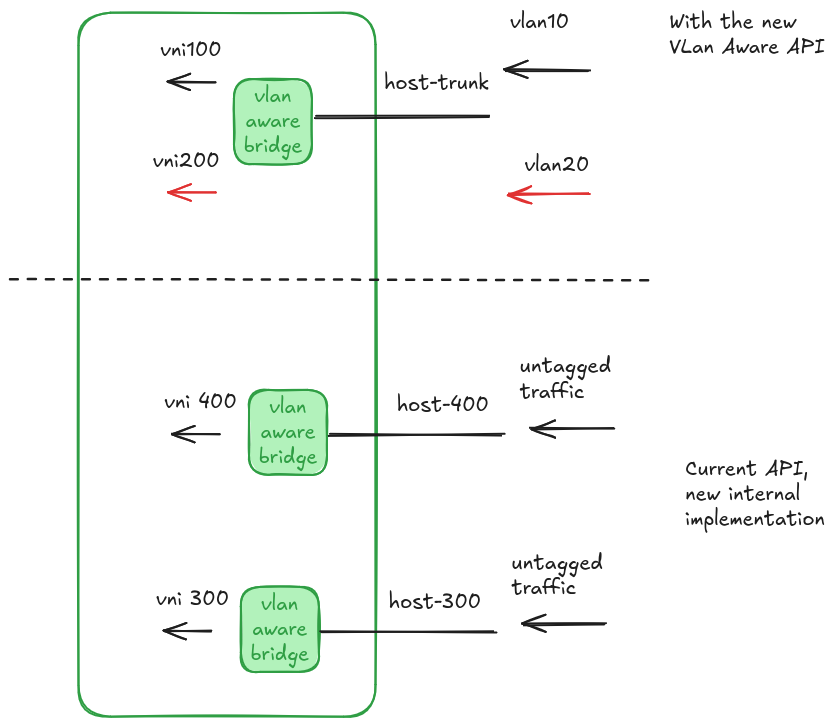
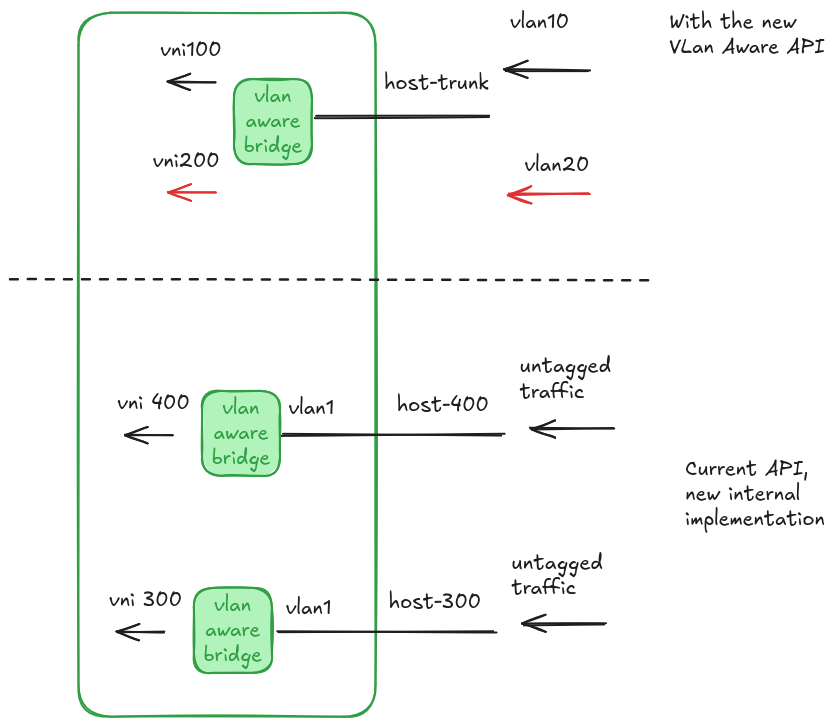
Address first batch of comments

diff --git a/enhancements/l2vni-vlan-tag.md b/enhancements/l2vni-vlan-tag.md
@@ -12,18 +12,67 @@ host attachment, bridge, and VXLAN device:
 ![Proposed shared VLAN trunk model](drawings/vlan_novlanbridges.png)
 
 In order to make the two implementations coexist, the current L2VNI
-is reimplemented using the VLan aware model.
+is reimplemented using the VLan aware model. This is because in order to make a VLan aware
+bridge and a non VLan aware bridge, we would have to use different VXLan ports (a limitation
+of linux).
 
 All L2VNIs and L3VNIs use the
 [FRR VLAN filtering bridge and single VXLAN device model](https://docs.frrouting.org/en/latest/evpn.html#vlan-filtering-bridge-and-single-vxlan-device).
-Existing resources keep their APIs and host-facing behavior; their VLANs
-remain internal. Untagged trunk traffic, automatic migration to trunks, and
-user configuration of internal VLANs are out of scope.
+
+## Reimplementing the Current API
+
+Because of the limitation described above, the current L2VNI which doesn't expect a 
+VLan tag must be reimplemented using a VLan aware bridge. This proposal describes how
+to do that tagging the traffic internally to the OpenPERouter network namespace while
+keeping the traffic to / from the host's namespace untagged.
+
 
 ## Proposed API
 
-`L2Trunk` owns the shared attachment, initially through an external Linux
-bridge configured with `hostMaster`.
+The existing standalone L2VNI API remains supported alongside the new trunk
+API. A standalone L2VNI can set `spec.hostMaster` to attach its dedicated
+host-facing veth to a Linux or OVS bridge, with untagged traffic on that
+veth. For example, the current API allows:
+
+```yaml
+apiVersion: network.openperouter.io/v1alpha1
+kind: L2VNI
+metadata:
+  name: standalone
+spec:
+  vni: 10300
+  hostMaster:
+    type: LinuxBridge
+    linuxBridge:
+      lifecycle: External
+      name: br-standalone
+```
+
+With the new API, an L2VNI instead sets `spec.trunk` to select a shared
+attachment and its VLAN tag:
+
+```yaml
+apiVersion: network.openperouter.io/v1alpha1
+kind: L2VNI
+metadata:
+  name: tenant-a
+spec:
+  vni: 10100
+  trunk:
+    name: workloads
+    vlan:
+      tag: 100
+```
+
+The `hostMaster` configuration belongs to the
+referenced `L2Trunk`. An L2VNI cannot set both `spec.hostMaster` and
+`spec.trunk`; existing standalone manifests need no changes. A standalone
+L2VNI can still omit `hostMaster` for external attachment of its veth.
+
+`L2Trunk` owns the shared host attachment. The host-facing veth carries a
+VLAN trunk that can extend the L2 domains through VLAN interfaces created
+on it, Linux or OVS bridges, or other L2 connectivity mechanisms.
+`hostMaster` behaves the same as for a regular L2VNI.
 
 ```yaml
 apiVersion: network.openperouter.io/v1alpha1
@@ -73,6 +122,7 @@ spec:
 - L2VNIs sharing a trunk must agree on effective `vxlanPort` and
   `underlayAddressFamily` settings.
 - Tags must be unique per trunk per node; different trunks may reuse tags.
+- Tags must be unique also for those trunks that share the same hostmaster.
 
 VNIs must be unique per node across trunks, standalone L2VNIs, and L3VNIs.
 The controller reports conflicts without programming ambiguous mappings.
@@ -83,18 +133,40 @@ The controller reports conflicts without programming ambiguous mappings.
 
 Creating an `L2Trunk` creates its veth pair, VLAN-aware bridge, and
 `external vnifilter` VXLAN device, even without referencing L2VNIs.
-The host veth attaches to `hostMaster`.
+The host veth attaches to `hostMaster` when specified; otherwise it remains
+available for external attachment.
 The controller configures tagged membership on the router-side veth and
 VXLAN port, VLAN-to-VNI mappings, and VNI filters. No default PVID is set:
 untagged frames and unconfigured tags are dropped.
 
-The external host bridge's operator must restrict each workload port to its
-assigned VLAN. Trunk filtering alone cannot stop workloads from sending
-another configured tenant's tag.
+The operator of the host-side L2 connectivity must restrict each workload
+to its assigned VLAN, for example through VLAN membership on bridge ports.
+Trunk filtering alone cannot stop workloads from sending another configured
+tenant's tag.
 
 Deleting an L2VNI removes its VLAN membership, mapping, VNI filter entry,
 and gateway configuration. Shared devices are deleted only when the
-`L2Trunk` is deleted, invalidating any L2VNIs that still reference it.
+`L2Trunk` is deleted. As with deletion of a referenced L3VNI, deleting a
+trunk removes the referencing L2VNIs' dataplane configuration and marks
+them as orphaned of the trunk, retaining their Kubernetes resources.
+
+An L2VNI referencing a missing or deleted trunk is reported through the
+affected node's `RouterNodeConfigurationStatus`: `Ready=False` and
+`Degraded=True`, with the existing condition reason `ConfigurationFailed`.
+Its `status.failedResources` entry identifies the dependency as follows
+(for `tenant-a` referencing trunk `workloads`):
+
+```yaml
+failedResources:
+- kind: L2VNI
+  name: tenant-a
+  reason: DependencyFailed
+  message: 'referenced L2Trunk "workloads" not found'
+```
+
+The message distinguishes a missing trunk from a missing L3VNI while
+reusing the existing failure reasons. Other valid resources continue to
+be configured.
 
 FRR retains per-L2VNI route targets; Zebra discovers mappings and routing
 domains from Linux. Each VNI with `gatewayIPs` gets a macvlan gateway in its
@@ -108,20 +180,30 @@ extend capacity while preserving per-node VNI uniqueness.
 
 ### Standalone L2VNIs and L3VNIs
 
-An L2VNI without `trunk` keeps its dedicated bridge, VXLAN device, and veth
-pair. The host veth carries untagged traffic and attaches to `hostMaster`
-when specified; otherwise it remains available for external attachment.
-Internally, the router-side veth is an access port for one VLAN mapped to
-its VNI on an `external vnifilter` VXLAN device.
+This is what the current API provides.
+
+In order to provide the same behavior
+with a VLan aware bridge, an L2VNI without `trunk` keeps its dedicated bridge,
+VXLAN device, and veth pair. The host veth carries untagged traffic and 
+attaches to `hostMaster` when specified; otherwise it remains available for
+external attachment. Internally, the router-side veth is an access port for
+one VLAN mapped to its VNI on an `external vnifilter` VXLAN device.
+
+![reimplementation of the current api with vlan aware bridge](drawings/vlan_novlan_vrf.png)
 
 Each L3VNI likewise keeps a dedicated bridge and VXLAN device, with one
 internal VLAN. L3VNI, VRF, gateway, and routing APIs remain unchanged.
 Internal VLAN IDs can be reused across dedicated bridges, requiring no
 node-wide allocation or status field.
 
-VXLAN devices with disjoint VNI filters can share the configured UDP port.
-Coexistence and FRR's L2VNI-to-VRF discovery require validation on supported
-kernels and FRR versions.
+This can be achieved with the following properties on the bridge:
+
+```bash
+bridge vlan add dev pe-100 vid 1 pvid untagged
+```
+
+where pe-100 is the veth leg on the OpenPERouter's namespace
+side and 1 is a fixed VLan.
 
 ## Possible alternatives
 
@@ -279,6 +361,20 @@ would require a second dataplane configuration path.
    host-facing behavior.
 2. Add `L2Trunk` and `L2VNI.trunk` to support shared VLAN-tagged attachments
    using the same dataplane implementation.
+
+## Potential followups
+
+### L2VNI / L3VNI with single bridge
+
+This is a potential improvement, if we find out that using a bridge per 
+VRF / L2VNI results in worse performances.
+
+The complexity of the implementation increases as: 
+
+- it would require pooling the vlan tags and tracking which vlan tag is associated
+to which VRF / L2VNI
+- it would require dynamic bridge creation in case more than 4096 VRFs / L2VNIs
+are required
    
 ## Validation and Testing
 
@@ -295,6 +391,9 @@ would require a second dataplane configuration path.
 - Performance comparison against per-VNI host attachments.
 
 ## Compatibility
+
+The `external vnifilter` VXLAN model requires Linux kernel 5.18 or later,
+including for existing L2VNIs and L3VNIs migrated to this model.
 
 Existing manifests and host-facing behavior remain valid. Internal VLANs
 require no user configuration. Static configuration supports the same
